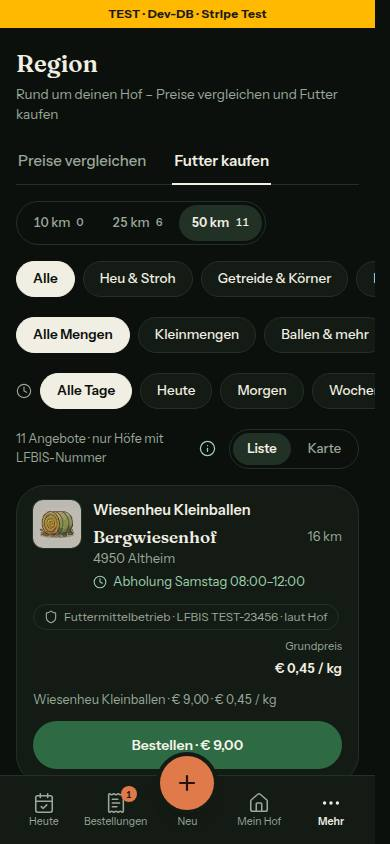
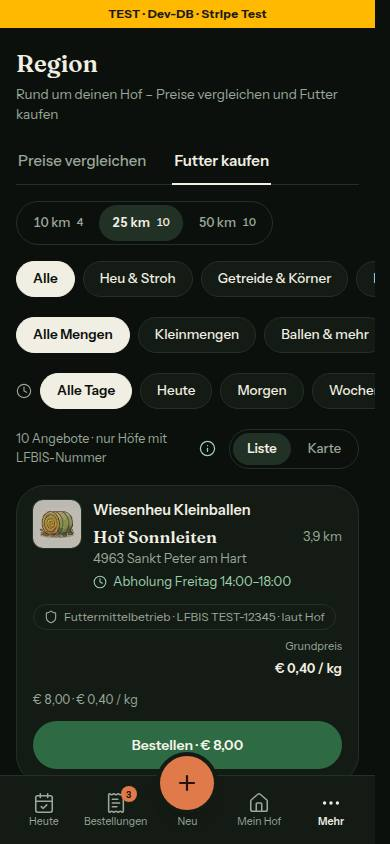
feat: Region-Reiter behalten Ansicht und Abholung, Kurzform der HofKurzkarte entfällt, drei Orte im Seed getauscht (G9, F10)
- RegionKopf reicht Ansicht und Abholung an regionReiterLink weiter, beide Reiter-Seiten geben sie aus ihrem Filter mit; neuer Test über die echten Seiten, alle vier Wege (Preise und Futter, je mit Liste und Karte)
- HofKurzkarte: TooltipInhalt nur noch children; das Markup der Pin-Vorschau auf /hoefe ist Byte für Byte gleich
- Seed: drei Orte im Seed getauscht (G9); jeder Hof bleibt in seiner Stufe des Umkreises, Kommentar-Tabelle mit entfernungKm neu gerechnet und geordnet
- hof-kopf.tsx: Kommentar zu Karussell und Produkttreffer mit Verweis auf F10
- Bilder: Futter kaufen Liste 390 hell und dunkel neu, Reiterwechsel mit Karte 390 hell; Bericht 133

Claude-Session: https://claude.ai/code/session_016mcnK6M2any3pAayV5rccV

diff --git a/tests/region-reiter-wechsel.test.ts b/tests/region-reiter-wechsel.test.ts
@@ -1,0 +1,84 @@
+/**
+ * Region › die Reiter-Links tragen Ansicht und Abholung mit (Nr. 133, Rest aus
+ * 123, Register F10): `regionReiterLink` kann es seit 123, der Kopf der beiden
+ * Reiter-Seiten hat die Werte aber nicht weitergereicht — wer in der Karte
+ * stand, landete beim Wechsel wieder in der Liste.
+ *
+ * Gerendert werden die echten Seiten (PreiseReiter, FutterReiter); nur die
+ * Abfragen sind Attrappen, die werfen — es genügt der Kopf samt Fehlerzustand.
+ * Alle vier Wege: Preise → Futter und Futter → Preise, je mit Liste und mit Karte.
+ */
+import { describe, it, expect, vi } from 'vitest'
+import { createElement, type ReactNode } from 'react'
+import { renderToStaticMarkup } from 'react-dom/server'
+
+vi.mock('next/link', () => ({
+  default: ({ href, children, ...rest }: { href: string; children?: ReactNode }) => createElement('a', { href, ...rest }, children),
+  // Der Ladepunkt am Reiter fragt den Ladestand des Links — hier lädt nie etwas.
+  useLinkStatus: () => ({ pending: false }),
+}))
+vi.mock('next/navigation', () => ({
+  redirect: (ziel: string) => {
+    throw new Error(`NEXT_REDIRECT:${ziel}`)
+  },
+  usePathname: () => '/region',
+  useSearchParams: () => new URLSearchParams(),
+}))
+vi.mock('@sentry/nextjs', () => ({ captureException: vi.fn() }))
+vi.mock('@/server/queries/umfeld', () => ({
+  getUmfeld: async () => {
+    throw new Error('Abfrage nicht erreichbar')
+  },
+}))
+vi.mock('@/server/queries/futter-kaufen', () => ({
+  getFutterKaufen: async () => {
+    throw new Error('Abfrage nicht erreichbar')
+  },
+}))
+
+import { FutterReiter } from '@/app/(hof)/region/futter-reiter'
+import { PreiseReiter } from '@/app/(hof)/region/preise-reiter'
+
+const HOF = { id: 'hof-a', name: 'Testhof A' }
+
+/** Die Ziele der beiden Reiter im Kopf, wie der Browser sie liest (&amp; → &). */
+function reiterZiele(html: string): { preise: string; futter: string } {
+  const nav = html.slice(html.indexOf('<nav aria-label="Region"'), html.indexOf('</nav>'))
+  const ziel = (label: string): string => {
+    const treffer = new RegExp(`<a href="([^"]+)"[^>]*>${label}`).exec(nav)
+    if (!treffer) throw new Error(`Reiter „${label}“ fehlt im Kopf`)
+    return treffer[1].replaceAll('&amp;', '&')
+  }
+  return { preise: ziel('Preise vergleichen'), futter: ziel('Futter kaufen') }
+}
+
+async function ausPreise(suche: Record<string, string>): Promise<{ preise: string; futter: string }> {
+  return reiterZiele(renderToStaticMarkup(await PreiseReiter({ farm: HOF, suche })))
+}
+
+async function ausFutter(suche: Record<string, string>): Promise<{ preise: string; futter: string }> {
+  return reiterZiele(renderToStaticMarkup(await FutterReiter({ farm: HOF, suche })))
+}
+
+describe('Region: der Wechsel zwischen den Reitern behält die Ansicht', () => {
+  it('Preise → Futter mit Karte bleibt in der Karte, mit Liste in der Liste', async () => {
+    expect((await ausPreise({ km: '10', ansicht: 'karte' })).futter).toBe('/region?reiter=futter&km=10&ansicht=karte')
+    expect((await ausPreise({ km: '10' })).futter).toBe('/region?reiter=futter&km=10')
+  })
+
+  it('Futter → Preise mit Karte bleibt in der Karte, mit Liste in der Liste', async () => {
+    expect((await ausFutter({ reiter: 'futter', km: '50', ansicht: 'karte' })).preise).toBe('/region?km=50&ansicht=karte')
+    expect((await ausFutter({ reiter: 'futter', km: '50' })).preise).toBe('/region?km=50')
+  })
+
+  it('Futter kaufen behält dabei Abholung und Ansicht, Preise vergleichen kennt die Abholung nicht', async () => {
+    const futter = await ausFutter({ reiter: 'futter', km: '25', abholung: 'morgen', ansicht: 'karte' })
+    expect(futter.futter).toBe('/region?reiter=futter&km=25&abholung=morgen&ansicht=karte')
+    expect(futter.preise).toBe('/region?km=25&ansicht=karte')
+  })
+
+  it('Unsinn in der Adresse fällt auf Liste und alle Tage zurück', async () => {
+    const ziele = await ausFutter({ reiter: 'futter', km: '25', abholung: 'gestern', ansicht: '<script>' })
+    expect(ziele).toEqual({ preise: '/region?km=25', futter: '/region?reiter=futter&km=25' })
+  })
+})

diff --git a/prisma/seed-daten.ts b/prisma/seed-daten.ts
@@ -1532,17 +1532,17 @@ type Nachbar = {
  * Inhaber erfunden. Entfernungen zum Pilothof in Braunau am Inn:
  *     1.0 km  Innbogenhof  (Haselbach, AT)
  *     3.3 km  Auhof  (Ranshofen, AT)
- *     9.8 km  Kirchbauernhof  (Mauerkirchen, AT)
+ *     9.8 km  Kirchbauernhof  (Weng im Innkreis, AT)
  *    10.2 km  Wengerhof  (Weng im Innkreis, AT)
- *    12.3 km  Moosbauernhof  (Uttendorf, AT)
  *    13.9 km  Waldbauernhof  (Handenberg, AT)
  *    14.8 km  Bachgutshof  (Sankt Georgen am Fillmannsbach, AT)
+ *    16.5 km  Kobernaußerhof  (Schalchen, AT)
  *    17.4 km  Schalchnerhof  (Schalchen, AT)
+ *    18.4 km  Moosbauernhof  (Mattighofen, AT)
  *    18.5 km  Kapellenhof  (Maria Schmolln, AT)
  *    18.7 km  Achleitenhof  (Hochburg-Ach, AT)
  *    21.8 km  Innleitenhof  (Sankt Georgen bei Obernberg am Inn, AT)
  *    22.7 km  Marktbauernhof  (Obernberg am Inn, AT)
- *    23.1 km  Kobernaußerhof  (Munderfing, AT)
  *    23.9 km  Seebauernhof  (Moosdorf, AT)
  *    24.4 km  Weilbachhof  (Weilbach, AT)
  *    25.2 km  Höhenbauernhof  (Wippenham, AT)
@@ -1594,12 +1594,12 @@ const NACHBARN: Nachbar[] = [
     name: 'Kirchbauernhof',
     inhaber: { email: 'bauer-03@example.com', name: 'Sabine Hofstätter', telefon: '+43 660 0000103' },
     adresse: 'Kirchbauernweg 3',
-    plz: '5270',
-    ort: 'Mauerkirchen',
+    plz: '4952',
+    ort: 'Weng im Innkreis',
     land: 'AT',
     bezirk: 'Braunau am Inn',
-    breite: 48.1917,
-    laenge: 13.1334,
+    breite: 48.2351,
+    laenge: 13.1720,
     sorten: ['HEU_KLEIN', 'ERDAEPFEL', 'BROT'],
   },
   {
@@ -1620,12 +1620,12 @@ const NACHBARN: Nachbar[] = [
     name: 'Moosbauernhof',
     inhaber: { email: 'bauer-05@example.com', name: 'Claudia Ebner', telefon: '+43 660 0000105' },
     adresse: 'Moosbauernweg 5',
-    plz: '5261',
-    ort: 'Uttendorf',
+    plz: '5230',
+    ort: 'Mattighofen',
     land: 'AT',
     bezirk: 'Braunau am Inn',
-    breite: 48.1589,
-    laenge: 13.1218,
+    breite: 48.1073,
+    laenge: 13.1508,
     sorten: ['MILCH', 'KAESE', 'EIER'],
   },
   {
@@ -1724,12 +1724,12 @@ const NACHBARN: Nachbar[] = [
     name: 'Kobernaußerhof',
     inhaber: { email: 'bauer-13@example.com', name: 'Elisabeth Wimmer', telefon: '+43 660 0000113' },
     adresse: 'Kobernaußerweg 13',
-    plz: '5222',
-    ort: 'Munderfing',
+    plz: '5231',
+    ort: 'Schalchen',
     land: 'AT',
     bezirk: 'Braunau am Inn',
-    breite: 48.0704,
-    laenge: 13.1816,
+    breite: 48.1292,
+    laenge: 13.1572,
     sorten: ['HEU_RUND', 'GERSTE_SACK', 'MINERAL'],
   },
   {

diff --git a/src/components/region/region-kopf.tsx b/src/components/region/region-kopf.tsx
@@ -3,14 +3,17 @@ import { cn } from '@/lib/utils'
 import { FOKUS_RAHMEN } from '@/components/ui/fokus'
 import { LadePunkt } from '@/components/ui/lade-punkt'
 import type { UmfeldKm } from '@/lib/umfeld'
-import { regionReiterLink, type RegionReiter } from '@/schemas/region'
+import type { AbholungWahl } from '@/schemas/hoefe-filter'
+import { regionReiterLink, type FutterAnsichtWahl, type RegionReiter } from '@/schemas/region'
 
 /*
  * Kopf von /region (Nachtlauf Nr. 22c, Mockups web-h5-region-preise und
  * web-h5-region-futter-kaufen): h1 „Region", ein Satz, darunter die Reiter
  * „Preise vergleichen" | „Futter kaufen". Die Reiter sind Links mit eigener
  * Adresse (?reiter=futter), damit Zurück, Neuladen und Teilen im richtigen
- * landen — wie die Reiter von Mein Hof. Der Umkreis geht beim Wechsel mit.
+ * landen — wie die Reiter von Mein Hof. Beim Wechsel gehen der Umkreis, die
+ * Ansicht (Liste | Karte) und für „Futter kaufen" die Abholung mit (Nr. 133,
+ * Rest aus 123): Wer in der Karte steht, bleibt in der Karte.
  * Solange der neue Reiter lädt, zeigt er den Ladepunkt (Nr. 122, Register
  * N14): Die alte Ansicht bleibt stehen, statt als Skelett aufzublitzen.
  */
@@ -25,10 +28,16 @@ const REITER: readonly { id: RegionReiter; label: string }[] = [
 export function RegionKopf({
   reiter,
   km,
+  ansicht = 'liste',
+  abholung = null,
   ladePunkt = false,
 }: {
   reiter: RegionReiter | null
   km: UmfeldKm
+  /** Die Ansicht der gerade offenen Seite — sie geht mit zum anderen Reiter. */
+  ansicht?: FutterAnsichtWahl
+  /** Der Abholungs-Filter von „Futter kaufen"; „Preise vergleichen" kennt ihn nicht (der Link lässt ihn weg). */
+  abholung?: AbholungWahl | null
   /** Der Ladepunkt am gewählten Reiter, solange er lädt — braucht einen `LadeRahmen` drumherum (wie `Unterreiter`). */
   ladePunkt?: boolean
 }): React.JSX.Element {
@@ -44,7 +53,7 @@ export function RegionKopf({
           return (
             <Link
               key={r.id}
-              href={regionReiterLink(r.id, km)}
+              href={regionReiterLink(r.id, km, { ansicht, abholung })}
               aria-current={gewaehlt ? 'page' : undefined}
               className={cn(
                 'relative -mb-px inline-flex min-h-11 items-center border-b-2 px-0.5 text-[15px] transition-colors duration-[250ms]',

diff --git a/tests/hoefe-seite.test.ts b/tests/hoefe-seite.test.ts
@@ -61,7 +61,7 @@ import { HoefeSuche, StandortUngefaehr } from '@/components/hoefe/hoefe-suche'
 import type { Ortssuche } from '@/components/hoefe/use-ortssuche'
 import { EntdeckenFilterblatt } from '@/components/hoefe/entdecken-filterblatt'
 import { SUCHFELD_TEXT, abholungReihe, kategorieReihe, leerzustand, standortUngefaehrText } from '@/lib/hoefe-entdecken'
-import { HofKurzkarte } from '@/components/hoefe/hof-kurzkarte'
+import { HofKurzkarte, KurzkartenInhalt } from '@/components/hoefe/hof-kurzkarte'
 import type { VorschauProdukt } from '@/lib/hofuebersicht'
 import { illustrationPfad } from '@/lib/taxonomie'
 import { grundpreisAusKennzeichnung, type AngebotsProdukt } from '@/lib/bereiche-anzeige'
@@ -241,13 +241,15 @@ describe('Hofkarte A', () => {
 })
 
 describe('HofKurzkarte — die Pin-Vorschau am Computer', () => {
+  // So baut hoefe-client.tsx die Vorschau: der Rahmen nimmt den Inhalt als `children`. Der Rahmen hat keine Hooks, darum
+  // als Funktion aufgerufen — createElement mit `children` im Props-Objekt verbietet die Lint-Regel, als drittes Argument der Typ.
+  const hofMitEntfernung = { ...HOF, entfernungKm: 2.1 }
   const kurz = html(
-    createElement(HofKurzkarte, {
-      hof: { ...HOF, entfernungKm: 2.1 },
+    HofKurzkarte({
+      hof: hofMitEntfernung,
       bereich: 'LEBENSMITTEL',
-      schaufenster: { produkte: DREI.produkte.slice(0, 2) },
-      jetzt: JETZT,
       id: 'vorschau-1',
+      children: createElement(KurzkartenInhalt, { hof: hofMitEntfernung, schaufenster: { produkte: DREI.produkte.slice(0, 2) }, jetzt: JETZT }),
     })
   )
 

diff --git a/src/components/hoefe/hof-kurzkarte.tsx b/src/components/hoefe/hof-kurzkarte.tsx
@@ -44,15 +44,8 @@ type Gemeinsam = {
   id: string
 }
 
-/** Der Inhalt unter dem Kopf: frei als `children` — oder die Kurzform von /hoefe (Abholzeile, zwei Produktzeilen). */
-type TooltipInhalt =
-  | { children: ReactNode }
-  | {
-      /** Die Schaufenster-Auswahl (waehleVorschauImBereich, zwei Zeilen). */
-      schaufenster: { produkte: VorschauProdukt[] }
-      /** Der Zeitpunkt des Servers beim Bauen der Seite (ISO-Text) — für die Abholzeile. */
-      jetzt: string
-    }
+/** Der Inhalt unter dem Kopf der Pin-Vorschau: frei als `children` — auf /hoefe `KurzkartenInhalt` (Abholzeile, zwei Produktzeilen). */
+type TooltipInhalt = { children: ReactNode }
 
 export type HofKurzkarteProps =
   | (Gemeinsam & { art?: 'tooltip' } & TooltipInhalt)
@@ -140,7 +133,7 @@ export function HofKurzkarte(props: HofKurzkarteProps): React.JSX.Element {
       )}
       <div className="flex flex-col gap-1 p-3.5">
         <HofKopf hof={hof} als="p" />
-        {'children' in props ? props.children : <KurzkartenInhalt hof={hof} schaufenster={props.schaufenster} jetzt={props.jetzt} />}
+        {props.children}
         <ZumHof hof={hof} bereich={bereich} imTabWeg={false} />
       </div>
     </div>

diff --git a/src/components/hoefe/hof-kopf.tsx b/src/components/hoefe/hof-kopf.tsx
@@ -6,7 +6,10 @@ import { Vorschaubild } from '@/components/hoefe/hof-vorschaubild'
  * Der Kopf eines Hofs (Register N22, N23): Name in Serif (höchstens zwei
  * Zeilen), rechts die Entfernung, darunter PLZ und Ort. EINE Quelle für die
  * Hofkarte der Liste, die kurze Hofkarte am Pin und Region — vorher stand er
- * in jeder Karte als eigene Kopie.
+ * in jeder Karte als eigene Kopie. Karussell (hoefe-karussell.tsx) und
+ * Produkttreffer (`ProduktZeile` in entdecken-teile.tsx) haben bewusst ihren
+ * eigenen Kopf: Sie sind keine Hofkarten, dort ist das Produkt bzw. die Reihe
+ * die Hauptsache (Register F10).
  *
  * Ohne `bild` sind es zwei Geschwister (Zeile mit Name und Entfernung, Zeile
  * mit dem Ort) — die Karte stapelt sie in ihrer Spalte, so bleibt /hoefe

diff --git a/tests/umfeld-seed.test.ts b/tests/umfeld-seed.test.ts
@@ -165,7 +165,7 @@ describe('Umfeld des Pilothofs im Testdatensatz', () => {
 
   it('die Box schneidet keinen Hof knapp an der Grenze ab — die exakte Entfernung entscheidet', async () => {
     const zehn = (await umfeld(10)).hoefe.map((h) => h.slug)
-    expect(zehn).toContain('kirchbauernhof') // 9,80 km
+    expect(zehn).toContain('kirchbauernhof') // 9,81 km
     expect(zehn).not.toContain('wengerhof') // 10,24 km
     const fuenfundzwanzig = (await umfeld(25)).hoefe.map((h) => h.slug)
     expect(fuenfundzwanzig).toContain('weilbachhof') // 24,41 km

diff --git a/src/app/(hof)/region/futter-reiter.tsx b/src/app/(hof)/region/futter-reiter.tsx
@@ -32,7 +32,7 @@ export async function FutterReiter({ farm, suche }: { farm: { id: string }; such
   return (
     <div className={REGION_RAHMEN}>
       <div className="flex flex-col gap-4 md:gap-[18px]">
-        <RegionKopf reiter="futter" km={filter.km} ladePunkt />
+        <RegionKopf reiter="futter" km={filter.km} ansicht={ansicht} abholung={filter.abholung} ladePunkt />
         <LadeInhalt>
           {daten === undefined ? (
             <RegionFehler nochmal={futterKaufenLink(filter, ansicht)} />

diff --git a/src/app/(hof)/region/preise-reiter.tsx b/src/app/(hof)/region/preise-reiter.tsx
@@ -50,7 +50,7 @@ export async function PreiseReiter({ farm, suche }: { farm: { id: string; name: 
   return (
     <div className={REGION_RAHMEN}>
       <div className="flex flex-col gap-4 md:gap-[18px]">
-        <RegionKopf reiter="preise" km={filter.km} ladePunkt />
+        <RegionKopf reiter="preise" km={filter.km} ansicht={filter.ansicht} ladePunkt />
         <LadeInhalt>{inhalt}</LadeInhalt>
       </div>
     </div>

diff --git a/docs/nachtlauf/berichte/133.md b/docs/nachtlauf/berichte/133.md
@@ -1,0 +1,55 @@
+# Bericht Nr. 133 – Region-Nacharbeit und Seed (G9, F10)
+
+## Was geändert wurde
+- `prisma/seed-daten.ts`: drei Orte im Seed getauscht (G9); Slug, Name, Inhaber und Sorten bleiben, Kommentar-Tabelle mit `entfernungKm` neu gerechnet und neu geordnet (`seed-lauf.ts` nennt keinen der Werte, unverändert).
+- `src/components/hoefe/hof-kurzkarte.tsx`: `TooltipInhalt` ist nur noch `{ children: ReactNode }`, der Zweig mit der Kurzform entfällt (der Typ `angebot` blieb unberührt).
+- `tests/hoefe-seite.test.ts`: Pin-Vorschau baut wie `hoefe-client.tsx` (Rahmen mit `children`); `tests/umfeld-seed.test.ts`: ein Kilometer-Kommentar (9,81 km).
+- `src/components/region/region-kopf.tsx`, `futter-reiter.tsx`, `preise-reiter.tsx`: `RegionKopf` nimmt `ansicht` und `abholung` und reicht sie an `regionReiterLink`; beide Seiten geben sie aus ihrem Filter weiter.
+- `tests/region-reiter-wechsel.test.ts` (neu): rendert die echten Reiter-Seiten, alle vier Wege (Preise → Futter, Futter → Preise, je mit Liste und Karte), dazu Abholung und Unsinn in der Adresse.
+- `src/components/hoefe/hof-kopf.tsx`: ein Satz zu Karussell und Produkttreffer mit Verweis auf F10.
+- Bilder: `futter-liste-390-hell|dunkel.jpg` unter `bilder/123/` ersetzt, neu `bilder/133/region-reiterwechsel-karte-390-hell.jpg`.
+
+Stufen nach dem Tausch (`entfernungKm`, Pilothof 48.2563/13.0434):
+- `kirchbauernhof` (Weng im Innkreis, 4952): 9,81 km, unter 10 km; `wengerhof` bleibt mit 10,24 km knapp darüber (Grenzfall-Test unverändert).
+- `moosbauernhof` (Mattighofen, 5230): 18,38 km, 10–25 km.
+- `kobernausserhof` (Schalchen, 5231): 16,46 km, 10–25 km.
+
+## Eigene Dateien (`git diff --name-only d9c0c2b...HEAD`)
+```
+docs/nachtlauf/berichte/133.md docs/nachtlauf/berichte/bilder/123/futter-liste-390-{dunkel,hell}.jpg docs/nachtlauf/berichte/bilder/133/region-reiterwechsel-karte-390-hell.jpg
+prisma/seed-daten.ts src/app/(hof)/region/{futter,preise}-reiter.tsx src/components/hoefe/{hof-kopf,hof-kurzkarte}.tsx src/components/region/region-kopf.tsx
+tests/hoefe-seite.test.ts tests/region-reiter-wechsel.test.ts tests/umfeld-seed.test.ts
+```
+
+## Beleg Punkt 1: /hoefe bleibt gleich
+- Das Markup der Pin-Vorschau (`renderToStaticMarkup`, dieselben Testdaten aus `tests/hoefe-seite.test.ts`) vorher mit der Kurzform und nachher mit `children` ist Byte für Byte gleich (3093 Byte, `cmp`). `hoefe-client.tsx` war schon auf `children` und blieb unberührt.
+
+## Annahmen
+- Die Reiter-Links tragen die Ansicht, mit der die Seite geladen wurde. `RegionKopf` ist ein Server-Teil und liegt außerhalb der Grenze für einen Umbau.
+- Die Bilder zeigen den Standard-Umkreis (25 km); 123 hatte 50 km gewählt. Die drei getauschten Höfe tragen keine LFBIS-Nummer und stehen deshalb nicht in „Futter kaufen“; das Bild belegt den Stand der Liste, nicht die Orte.
+- `DEVELOPMENT.md` liegt nicht in der Grenze von 133: kein Eintrag dort.
+
+## Nicht gelöst
+- Wer nach dem Laden mit „Liste | Karte“ umschaltet (`history.replaceState`), dessen Reiter-Link im Kopf trägt weiter die Ansicht vom Laden. Behebt nur ein Client-Kopf, der `useSearchParams` liest; das ändert die Bauart von `RegionKopf` und braucht eine Grenzerweiterung.
+- Die drei alten Orte stehen noch in 13 Dateien außerhalb der Grenze (`docs/mockups`, einzelne Tests, eine Seite). Laut Freigabe („Nicht in diesem Lauf“) offen bei der Projektleitung.
+
+## Wie der Mensch es testet
+- Region › Preise vergleichen, `?km=25&ansicht=karte`: „Futter kaufen“ antippen (oder Tab, Enter). Erwartung: `/region?reiter=futter&km=25&ansicht=karte`, die Karte bleibt offen. Zurück über „Preise vergleichen“: `/region?km=25&ansicht=karte`. Ohne Karte bleibt es in der Liste.
+- Futter kaufen mit `?abholung=morgen`: der eigene Reiter behält die Abholung, „Preise vergleichen“ lässt sie weg.
+- /hoefe am Computer: Pin überfahren, die Vorschau sieht aus wie vorher (Abholzeile, zwei Produktzeilen, „Zum Hof“).
+- Test-Datenbank nach `pnpm test:integration`: die drei Höfe tragen die neuen Orte (der Seed zieht Ort, PLZ und Kartenpunkt bestehender Höfe nach). Nie `pnpm db:seed`.
+- Tastatur (geprüft): Tab von „Preise vergleichen“ zu „Futter kaufen“, Enter wechselt, Shift+Tab und Enter zurück; Fokusring sichtbar; beide Reiter 44 px hoch (134 und 98 px breit).
+- Axe in hell und dunkel auf drei Adressen: 0 Verstöße; in der Kartenansicht ein „unvollständig“ beim Kontrast (Kartenkacheln ohne Netz, nicht prüfbar).
+
+## Angepasste `.md`
+Keine außer diesem Bericht.
+
+## Nacharbeit
+Keine.
+
+## Regelvorschlag
+Keiner.
+
+## Bilder und Mockup-Abweichungen
+- Keine neue Abweichung (F10 gilt). Bilder: `bilder/123/futter-liste-390-hell.jpg`, `bilder/123/futter-liste-390-dunkel.jpg`, `bilder/133/region-reiterwechsel-karte-390-hell.jpg` (Kacheln ohne Netz grau).
+- Wiederverwendet: `regionReiterLink`, `KurzkartenInhalt`, `HofKopf`. Neu, weil: nur die Testdatei für den Reiterwechsel (die Seiten waren bisher nirgends gerendert).
